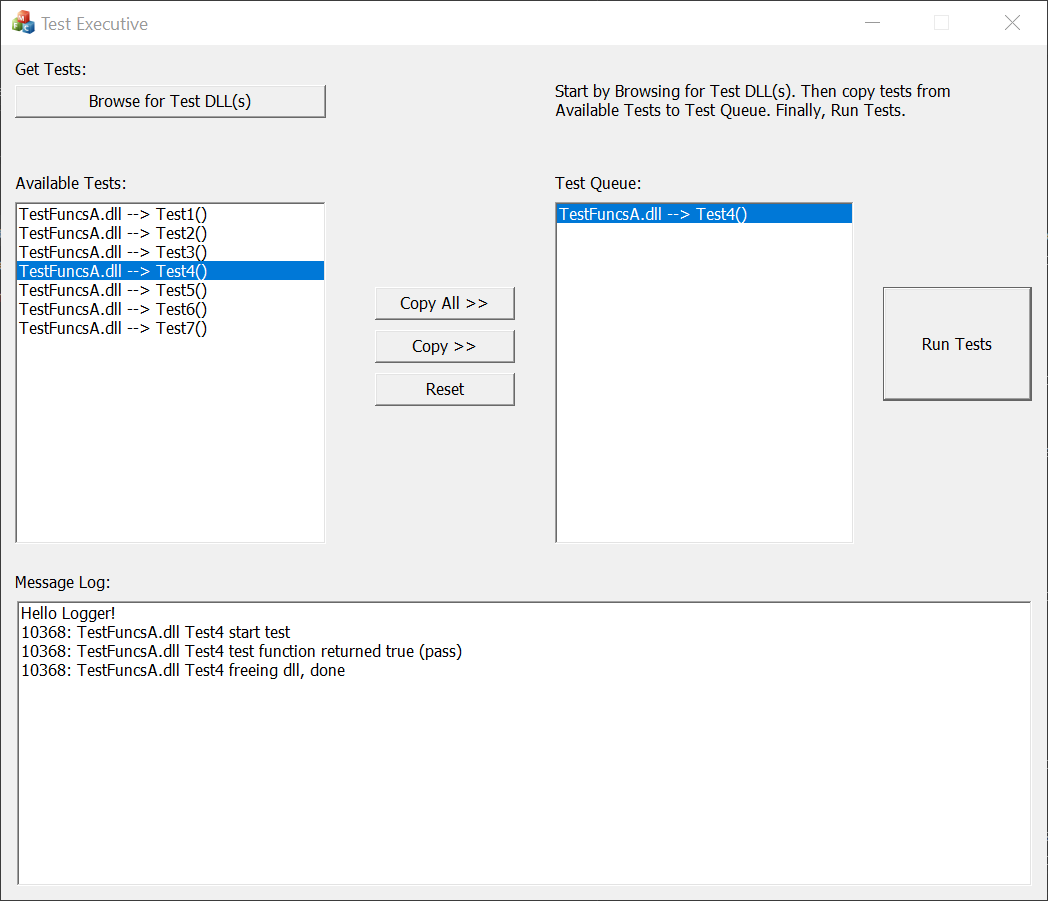
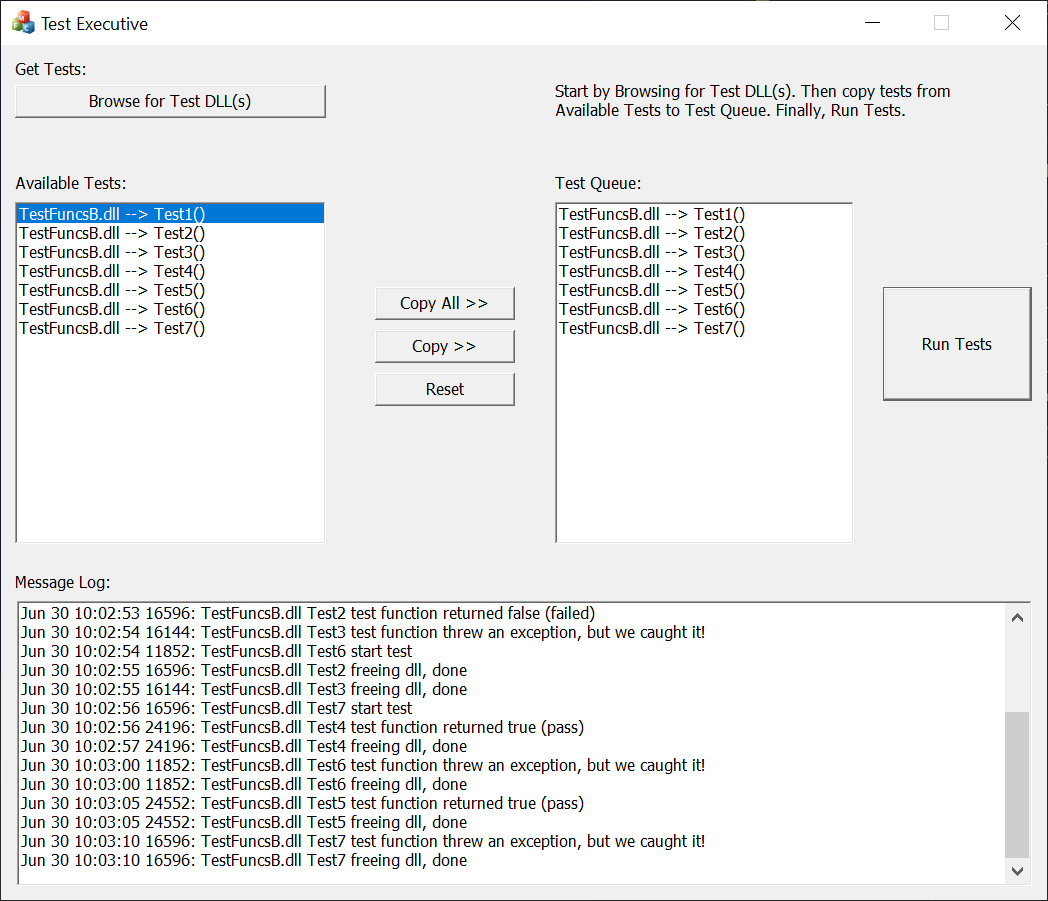
Add timestamp to logging output. Update images so readme shows timestamp.

diff --git a/TestExec/TestExec/TestExecDlg.cpp b/TestExec/TestExec/TestExecDlg.cpp
@@ -385,10 +385,15 @@ void CTestExecDlg::logThread()
 afx_msg LRESULT CTestExecDlg::OnUserDefinedMessage(WPARAM wParam, LPARAM lParam)
 {
 	CString *cslParam = (CString *) lParam; 
+	CString friendlyMonth[] = { "Jan", "Feb", "Mar", "Apr", "May", "Jun", "Jul", "Aug", "Sep", "Oct", "Nov", "Dec" };
 
 	if (cslParam)
 	{
-		m_LoggerListBox.AddString(cslParam->GetString());
+		CTime t = CTime::GetCurrentTime();
+
+		CString formattedString;
+		formattedString.Format("%s %02d %02d:%02d:%02d %s", friendlyMonth[t.GetMonth()], t.GetDay(), t.GetHour(), t.GetMinute(), t.GetSecond(), *cslParam);
+		m_LoggerListBox.AddString(formattedString);
 		delete cslParam;
 	}
 
